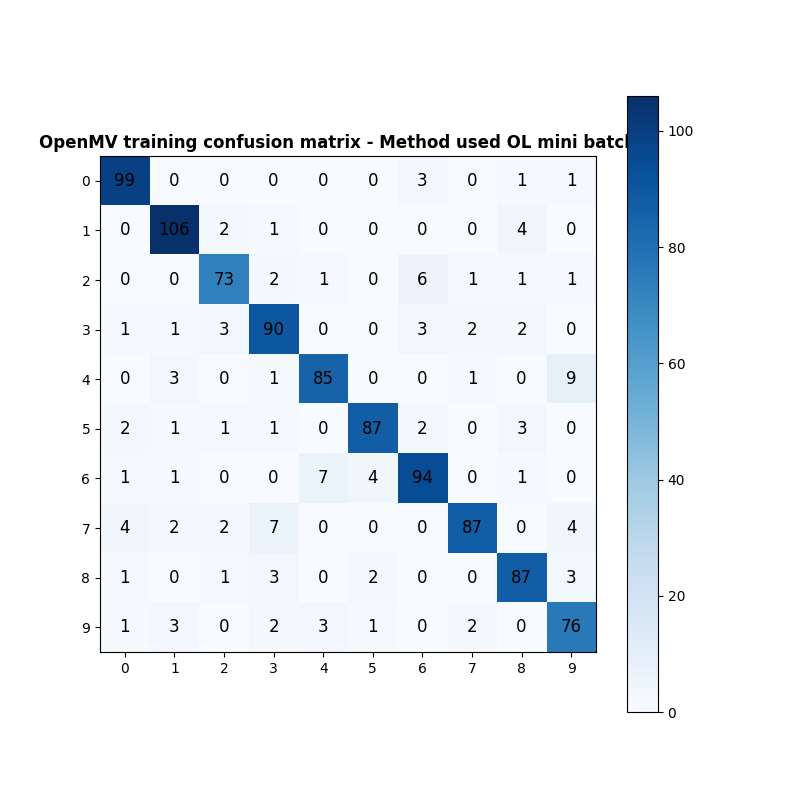
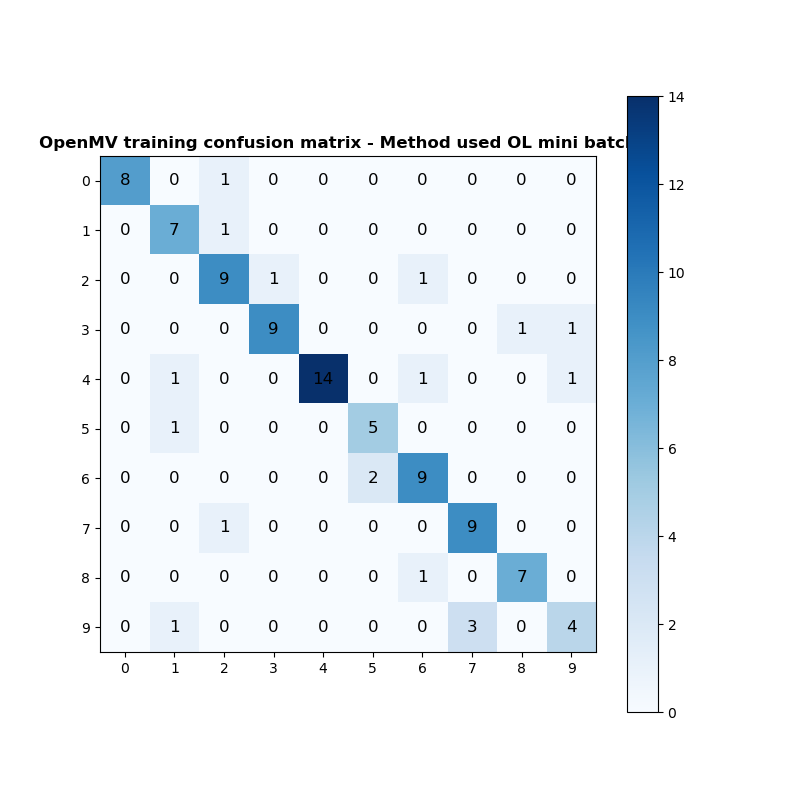
All methods work

diff --git a/OpenMV_application/Scripts/OpenMV_files/OpenMV_OL_training_sync.py b/OpenMV_application/Scripts/OpenMV_files/OpenMV_OL_training_sync.py
@@ -38,9 +38,9 @@ myLib.load_weights(OL_layer)            # Read from the txt file the biases and 
 # 2 -> OLV2             WORKS - perfoms good
 # 3 -> LWF              WORKS - perfoms good
 # 4 -> CWR              WORKS - performs not so good
-# 5 -> OL mini batch    NOT WORKS - still to test best performance
-# 6 -> OLV2 mini batch  NOT WORKS - still to test best performance
-# 7 -> LWF mini batch   NOT WORKS - still to test best performance
+# 5 -> OL mini batch    WORKS - still to test best performance
+# 6 -> OLV2 mini batch  WORKS - still to test best performance
+# 7 -> LWF mini batch   WORKS - still to test best performance
 OL_layer.method = 7
 
 myLib.allocateMemory(OL_layer)
@@ -50,7 +50,7 @@ label = 'X'
 # DEFINE TRAINING PARAMS
 OL_layer.l_rate      = 0.005
 OL_layer.batch_size  = 8
-OL_layer.train_limit = 3000      # after how many prediction start testing
+OL_layer.train_limit = 900      # after how many prediction start testing
 OL_layer.counter     = 0        # just a reset
 midpoint_type = 1
 

diff --git a/OpenMV_application/Scripts/Trainings/run_imageDisplay.py b/OpenMV_application/Scripts/Trainings/run_imageDisplay.py
@@ -116,7 +116,7 @@ cv2.imshow('SYNC APP', init_img)
 cv2.createTrackbar('Training', 'SYNC APP', 0, 3, on_change)
 
 # Import the dataset that I am going to display
-samples_for_each_digit = 400
+samples_for_each_digit = 100
 digits_i_want          = [0,1,2,3,4,5,6,7,8,9]
 digits_data, digits_label = createDataset(samples_for_each_digit+1, digits_i_want)    # load dataset
 tot_samples = len(digits_label)-8

diff --git a/OpenMV_application/Scripts/OpenMV_files/OpenMV_OL_training_debug.py b/OpenMV_application/Scripts/OpenMV_files/OpenMV_OL_training_debug.py
@@ -41,7 +41,7 @@ myLib.load_labels(OL_layer)
 # 5 -> OL mini batch
 # 6 -> OLV2 mini batch
 # 7 -> LWF mini batch
-OL_layer.method = 7
+OL_layer.method = 1
 myLib.allocateMemory(OL_layer)
 
 current_label ='X'
